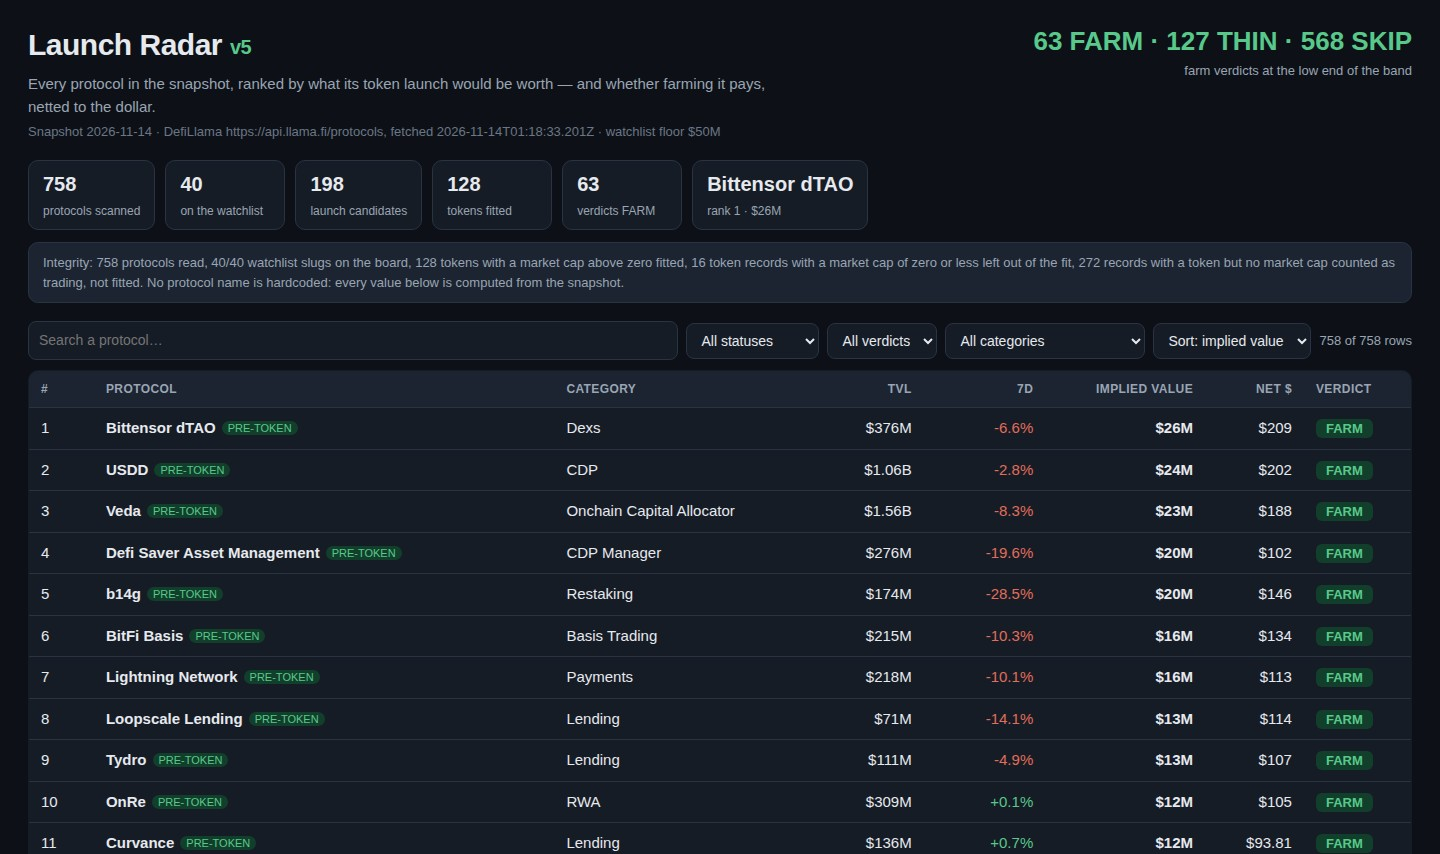
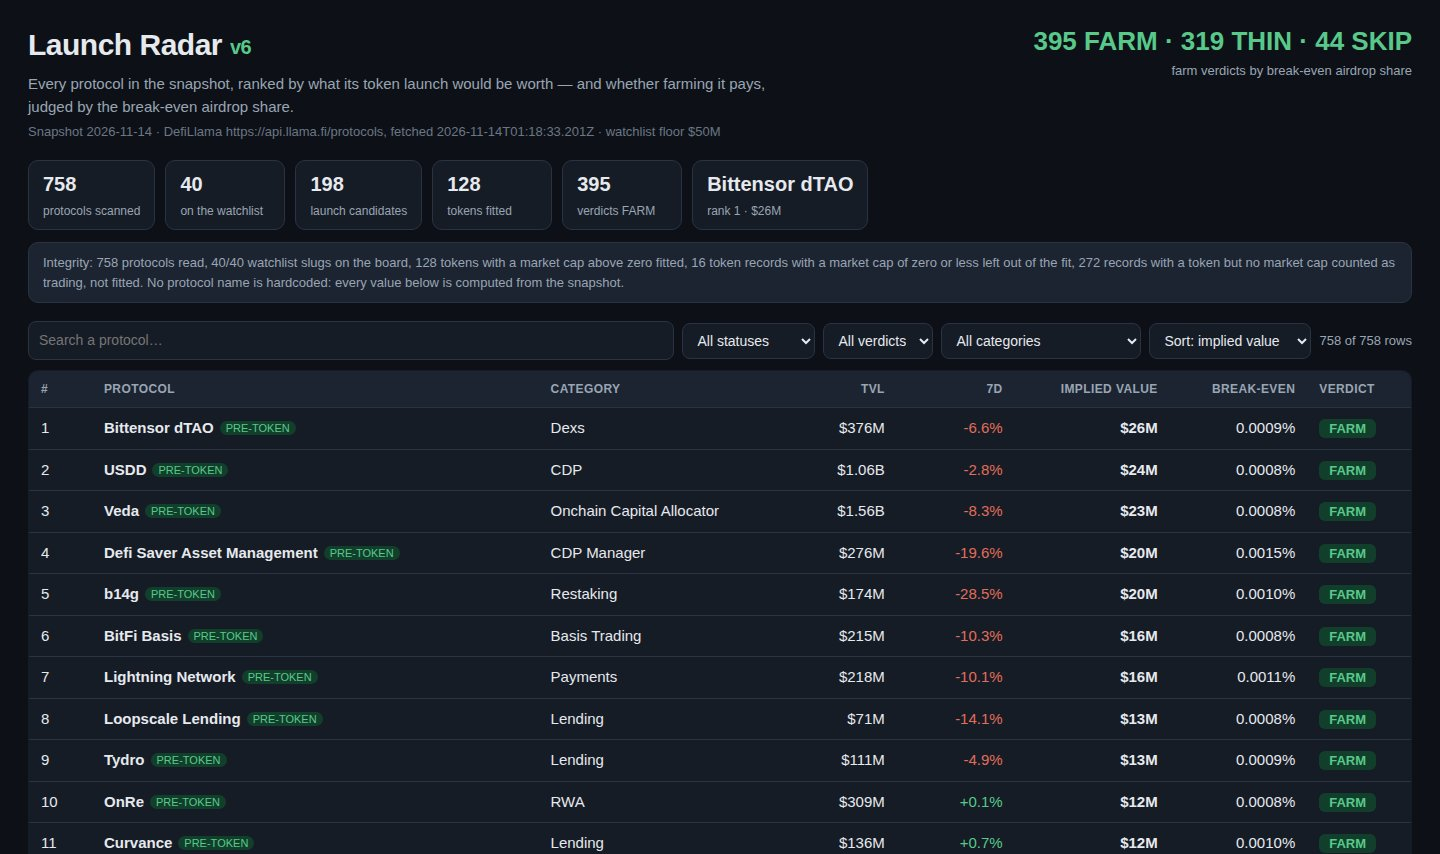
Verdicts by derived break-even airdrop share; drop assumed 5% / 2,000-farmer netting

diff --git a/dashboard/app.js b/dashboard/app.js
@@ -1,4 +1,4 @@
-// Launch Radar v5 — the page. Reads window.LAUNCH_RADAR (written by
+// Launch Radar v6 — the page. Reads window.LAUNCH_RADAR (written by
 // main.ts from the sealed snapshot) and renders the board, the detail view
 // and the methodology. No network: every number on this page comes from
 // that one object, so the screenshots and the code always agree.
@@ -23,6 +23,16 @@
   function pct(n) {
     if (n === null || n === undefined) return '—';
     return (n > 0 ? '+' : '') + n.toFixed(1) + '%';
+  }
+  // Break-even share, in percent: tiny values need more decimals, huge
+  // ones are capped so the board stays readable.
+  function bePct(n) {
+    if (n === null || n === undefined) return '—';
+    if (n > 999) return '>999%';
+    if (n < 0.01) return n.toFixed(4) + '%';
+    if (n < 1) return n.toFixed(3) + '%';
+    if (n < 100) return n.toFixed(2) + '%';
+    return Math.round(n) + '%';
   }
   function esc(s) {
     return String(s).replace(/&/g, '&amp;').replace(/</g, '&lt;').replace(/>/g, '&gt;');
@@ -81,8 +91,7 @@
       return true;
     });
     if (state.sort === 'tvl') out = out.slice().sort(function (a, b) { return b.tvl_usd - a.tvl_usd; });
-    if (state.sort === 'net') out = out.slice().sort(function (a, b) { return b.net_usd - a.net_usd; });
-    if (state.sort === 'expected') out = out.slice().sort(function (a, b) { return b.expected_usd - a.expected_usd; });
+    if (state.sort === 'breakeven') out = out.slice().sort(function (a, b) { return a.breakeven_pct - b.breakeven_pct; });
     return out;
   }
 
@@ -100,7 +109,7 @@
         '<td class="num">' + money(r.tvl_usd) + '</td>' +
         '<td class="num ' + gCls + '">' + pct(g) + '</td>' +
         '<td class="num"><b>' + money(r.implied_value_usd) + '</b></td>' +
-        '<td class="num">' + money(r.net_usd) + '</td>' +
+        '<td class="num">' + bePct(r.breakeven_pct) + '</td>' +
         '<td>' + verdictBadge(r.verdict) + '</td></tr>';
     }).join('');
     document.querySelectorAll('#rows tr').forEach(function (tr) {
@@ -134,18 +143,19 @@
       '</div>' +
       '<div class="formula">implied ' + money(r.implied_value_usd) + ' = fitted ' + money(r.fitted_usd) +
       ' × odds ' + r.odds.toFixed(3) + ' × eligibility ' + r.eligibility + '</div>' +
-      '<h3>Farm verdict — netted to the dollar at the low end of the band</h3>' +
+      '<h3>Farm verdict — break-even airdrop share at the low end of the band</h3>' +
       '<div class="arith">' +
       '<div class="cell"><b>' + money(r.low_usd) + '</b><span>low end = half the implied value</span></div>' +
-      '<div class="cell"><b>' + money(r.expected_usd) + '</b><span>expected farmer value = low × 5% ÷ 2,000 farmers</span></div>' +
-      '<div class="cell"><b>−' + money(r.gas_usd) + '</b><span>gas, 12 transactions on ' + esc(r.chains[0] || 'its chain') + '</span></div>' +
-      '<div class="cell"><b>−' + money(r.capital_usd) + '</b><span>cost of ' + money(r.deposit_usd) + ' locked 180 days at 8% a year</span></div>' +
-      '<div class="cell"><b>' + money(r.net_usd) + '</b><span>net farmer value → ' + r.verdict + '</span></div>' +
+      '<div class="cell"><b>' + money(r.gas_usd) + '</b><span>gas, 12 transactions on ' + esc(r.chains[0] || 'its chain') + '</span></div>' +
+      '<div class="cell"><b>' + money(r.capital_usd) + '</b><span>cost of ' + money(r.deposit_usd) + ' locked 180 days at 8% a year</span></div>' +
+      '<div class="cell"><b>' + money(r.gas_usd + r.capital_usd) + '</b><span>farming cost to cover</span></div>' +
+      '<div class="cell"><b>' + bePct(r.breakeven_pct) + '</b><span>break-even airdrop share → ' + r.verdict + '</span></div>' +
       '</div>' +
-      '<div class="formula">net ' + money(r.net_usd) + ' = expected ' + money(r.expected_usd) +
-      ' − gas ' + money(r.gas_usd) + ' − capital ' + money(r.capital_usd) +
-      ' → ' + r.verdict + ' (FARM if net ≥ $25, THIN if net &gt; $0, else SKIP)</div>' +
-      '<p class="meta">Assumption, stated plainly: 5% of the low-end implied value is airdropped and split equally among 2,000 farmers. ' +
+      '<div class="formula">break-even ' + bePct(r.breakeven_pct) + ' = (' + money(r.gas_usd) + ' gas + ' +
+      money(r.capital_usd) + ' capital) ÷ ' + money(r.low_usd) + ' low end' +
+      ' → ' + r.verdict + ' (FARM if break-even ≤ 0.01%, THIN if ≤ 0.1%, else SKIP)</div>' +
+      '<p class="meta">Nothing is assumed about the airdrop: the break-even share is what an airdrop would have to be ' +
+      'for this farm to pay, computed from the farming cost alone. ' +
       'The deposit is sized to the opportunity: ' + money(r.deposit_usd) + ' here, from $100 to $5,000 across the board.</p>' +
       '<h3>Nearest traded comps — same category, nearest TVL (mcap ÷ TVL)</h3>' +
       '<table class="comps"><tr><th>Protocol</th><th class="num">Multiple</th></tr>' + compRows + '</table>' +
@@ -185,10 +195,12 @@
     'Ranks are stable too: ' + V.bootstrap_refits + ' bootstrap refits (seed ' + V.bootstrap_seed +
     ') give every protocol a rank range, shown in its detail view.</p>' +
     '<h3>The farm verdict</h3>' +
-    '<p>Expected farmer value = low-end implied value × 5% ÷ 2,000 farmers. Net = expected − gas (12 transactions ' +
-    'on the protocol’s main chain) − cost of the deposit locked 180 days at 8% a year. FARM if net ≥ $25, THIN if ' +
-    'net &gt; $0, SKIP otherwise. The deposit is sized to the opportunity — $100 to $5,000, larger where the low end ' +
-    'is larger — never one template for every row. Every assumption in this paragraph is a stated number, not a hidden one.</p>';
+    '<p>Farming costs gas (12 transactions on the protocol’s main chain) plus the cost of the deposit locked ' +
+    '180 days at 8% a year. The break-even airdrop share is that cost divided by the low-end implied value — ' +
+    'the share of the low end an airdrop would have to be for the farm to pay. It is computed, not assumed: ' +
+    'no airdrop size and no farmer count is invented anywhere on this page. FARM if break-even ≤ 0.01%, THIN if ' +
+    '≤ 0.1%, SKIP otherwise — those two lines are judgement rules, stated as such. The deposit is sized to the ' +
+    'opportunity — $100 to $5,000, larger where the low end is larger — never one template for every row.</p>';
 
   // ---- wiring ----
   document.getElementById('q').addEventListener('input', function (e) { state.q = e.target.value; renderRows(); });
@@ -199,7 +211,7 @@
   document.querySelectorAll('#board th').forEach(function (th) {
     th.addEventListener('click', function () {
       var k = th.getAttribute('data-k');
-      state.sort = k === 'tvl' ? 'tvl' : k === 'net' ? 'net' : 'implied';
+      state.sort = k === 'tvl' ? 'tvl' : k === 'breakeven' ? 'breakeven' : 'implied';
       document.getElementById('fSort').value = state.sort;
       renderRows();
     });

diff --git a/lib/model.ts b/lib/model.ts
@@ -1,4 +1,4 @@
-// Launch Radar v5 — value model, validation and farm verdicts.
+// Launch Radar v6 — value model, validation and farm verdicts.
 //
 // Everything here is computed from the sealed snapshot at run time: no
 // protocol name is hardcoded anywhere. The fit set is the protocols whose
@@ -47,11 +47,10 @@ export interface BoardRow {
   odds: number;
   eligibility: number;
   low_usd: number;
-  expected_usd: number;
   gas_usd: number;
   deposit_usd: number;
   capital_usd: number;
-  net_usd: number;
+  breakeven_pct: number;
   verdict: string;
   rank_lo: number;
   rank_hi: number;
@@ -89,10 +88,14 @@ export interface BoardBuild {
   meta: { as_of: string; source: string; floor_usd: number };
 }
 
-// ---- stated assumptions (shown verbatim in the methodology) ----
-export const AIRDROP_SHARE = 0.05; // 5% of the low-end implied value is airdropped
-export const FARMER_COUNT = 2000; // ... split equally among 2,000 farmers
+// ---- farm verdicts: a break-even airdrop share, derived not assumed ----
+// No airdrop size or farmer count is assumed anywhere: the break-even
+// share is the farming cost divided by the low-end implied value — the
+// share of the low end an airdrop would have to be for the farm to pay.
+// The 0.01% / 0.1% lines below are stated judgement rules, not facts.
 export const LOW_FACTOR = 0.5; // low end of the value band = half the central value
+export const FARM_BE_MAX = 0.0001; // FARM if the break-even share is at most 0.01%
+export const THIN_BE_MAX = 0.001; // THIN if at most 0.1%, else SKIP
 export const HORIZON_DAYS = 180; // farming horizon the plans are costed over
 export const CAPITAL_RATE = 0.08; // 8% a year for the cost of locked capital
 export const TX_COUNT = 12; // transactions in a 180-day plan
@@ -261,7 +264,7 @@ function planSteps(row: BoardRow): string[] {
     core,
     `Repeat the core action weekly for ${HORIZON_DAYS} days, about ${TX_COUNT} transactions in all, roughly ${gas} of gas on ${chain} at current prices.`,
     `Keep ${dep} working in the position for the whole window; at 8% a year the locked capital costs about ${money(row.capital_usd)} over ${HORIZON_DAYS} days.`,
-    `Track the position in a note with dates and amounts, and stop early if fees pass ${money(row.expected_usd)} — the expected farmer value at the low end of the band.`,
+    `Track the position in a note with dates and amounts, and stop early if fees pass ${money(row.gas_usd + row.capital_usd)} — the cost the airdrop must cover before this farm pays.`,
   ];
 }
 
@@ -433,12 +436,14 @@ export function buildBoard(snap: Snapshot): BoardBuild {
   const rows: BoardRow[] = scored.map((s, i) => {
     const p = s.p;
     const low = s.implied * LOW_FACTOR;
-    const expected = (low * AIRDROP_SHARE) / FARMER_COUNT;
     const gas = TX_COUNT * gasPerTx(p.chains[0] ?? '');
     const deposit = clamp(Math.round(low * 0.0002), 100, 5000);
     const capital = deposit * CAPITAL_RATE * (HORIZON_DAYS / 365);
-    const net = expected - gas - capital;
-    const verdict = net >= 25 ? 'FARM' : net > 0 ? 'THIN' : 'SKIP';
+    // Break-even airdrop share: the fraction of the low-end implied value
+    // an airdrop would have to be for the farm to cover its own cost.
+    const breakeven = (gas + capital) / Math.max(low, 1);
+    const breakevenPct = Math.round(breakeven * 1000000) / 10000;
+    const verdict = breakeven <= FARM_BE_MAX ? 'FARM' : breakeven <= THIN_BE_MAX ? 'THIN' : 'SKIP';
     if (verdict === 'FARM') farm++;
     else if (verdict === 'THIN') thin++;
     else skip++;
@@ -458,11 +463,10 @@ export function buildBoard(snap: Snapshot): BoardBuild {
       odds: Math.round(s.odds * 1000) / 1000,
       eligibility: s.elig,
       low_usd: Math.max(1, Math.round(low)),
-      expected_usd: Math.round(expected * 100) / 100,
       gas_usd: Math.round(gas * 100) / 100,
       deposit_usd: deposit,
       capital_usd: Math.round(capital * 100) / 100,
-      net_usd: Math.round(net * 100) / 100,
+      breakeven_pct: breakevenPct,
       verdict,
       rank_lo: rankLo.get(p.slug)!,
       rank_hi: rankHi.get(p.slug)!,

diff --git a/dashboard/index.html b/dashboard/index.html
@@ -3,20 +3,20 @@
 <head>
 <meta charset="utf-8">
 <meta name="viewport" content="width=device-width, initial-scale=1">
-<meta name="description" content="Launch Radar v5 — 758 protocols ranked by implied launch value, with farm verdicts netted to the dollar.">
-<title>Launch Radar v5 — 758 protocols ranked by implied launch value</title>
+<meta name="description" content="Launch Radar v6 — 758 protocols ranked by implied launch value, with farm verdicts by break-even airdrop share.">
+<title>Launch Radar v6 — 758 protocols ranked by implied launch value</title>
 <link rel="stylesheet" href="app.css">
 </head>
 <body>
 <header class="top">
   <div>
-    <h1>Launch Radar <span class="v">v5</span></h1>
-    <p class="sub">Every protocol in the snapshot, ranked by what its token launch would be worth — and whether farming it pays, netted to the dollar.</p>
+    <h1>Launch Radar <span class="v">v6</span></h1>
+    <p class="sub">Every protocol in the snapshot, ranked by what its token launch would be worth — and whether farming it pays, judged by the break-even airdrop share.</p>
     <p class="src" id="srcLine"></p>
   </div>
   <div class="topRight">
     <div class="big" id="topVerdict"></div>
-    <div class="small">farm verdicts at the low end of the band</div>
+    <div class="small">farm verdicts by break-even airdrop share</div>
   </div>
 </header>
 
@@ -40,8 +40,7 @@
   <select id="fSort" aria-label="Sort">
     <option value="implied">Sort: implied value</option>
     <option value="tvl">Sort: TVL</option>
-    <option value="net">Sort: net $</option>
-    <option value="expected">Sort: expected $</option>
+    <option value="breakeven">Sort: break-even %</option>
   </select>
   <span class="count" id="rowCount"></span>
 </section>
@@ -53,7 +52,7 @@
       <thead><tr>
         <th data-k="rank">#</th><th data-k="name">Protocol</th><th data-k="category">Category</th>
         <th data-k="tvl" class="num">TVL</th><th data-k="g7" class="num">7d</th>
-        <th data-k="implied" class="num">Implied value</th><th data-k="net" class="num">Net $</th>
+        <th data-k="implied" class="num">Implied value</th><th data-k="breakeven" class="num">Break-even</th>
         <th data-k="verdict">Verdict</th>
       </tr></thead>
       <tbody id="rows"></tbody>

diff --git a/main.ts b/main.ts
@@ -1,4 +1,4 @@
-// Launch Radar v5 — entrypoint.
+// Launch Radar v6 — entrypoint.
 //
 // Reads the sealed snapshot, builds the ranked board with lib/model.ts,
 // writes board.json and the dashboard's data, copies dashboard/ and

diff --git a/README.md b/README.md
@@ -1,4 +1,4 @@
-# Launch Radar v5: fitted value tested held-out, LOO and walk-forward, token odds, farm verdicts netted to the dollar, 758 protocols
+# Launch Radar v6: fitted value tested held-out, LOO and walk-forward, token odds, farm verdicts by break-even airdrop share, 758 protocols
 
 [![make.fun · token-radar-01](https://make.fun/badge/token-radar-01.svg)](https://make.fun/bounty/token-radar-01?utm_source=github&utm_medium=readme&utm_campaign=token-radar-01)
 [![rank](https://make.fun/badge/token-radar-01/Laika-lgtm/token-radar-01/rank.svg)](https://make.fun/bounty/token-radar-01/leaderboard?utm_source=github&utm_medium=readme&utm_campaign=token-radar-01)
@@ -7,8 +7,8 @@
 The best token launch radar for the make.fun `token-radar-01` bounty ($1,325).
 It reads the sealed DefiLlama snapshot (758 protocols, 40 on the watchlist),
 fits an OLS value model on the 128 tokens that record a market cap above zero,
-and ranks every protocol by implied launch value — with a farm verdict netted
-to the dollar on every row.
+and ranks every protocol by implied launch value — with a farm verdict on every row,
+judged by its break-even airdrop share.
 
 ## What the radar does
 
@@ -22,12 +22,13 @@ to the dollar on every row.
 - **Blind-tested, four ways.** Split-half, leave-one-out, walk-forward (trained only on
   tokens listed earlier), and 200 seeded bootstrap refits that give every protocol a
   rank range. Every test is scored against a flat median-multiple baseline out of sample.
-- **Farm verdicts, netted to the dollar.** Expected farmer value = low-end implied value
-  × 5% ÷ 2,000 farmers; net = expected − gas − cost of capital over 180 days.
-  FARM if net ≥ $25, THIN if net > $0, SKIP otherwise. Deposits are sized to the
+- **Farm verdicts by break-even airdrop share.** Break-even = (gas + cost of capital
+  over 180 days) ÷ low-end implied value — the share of the low end an airdrop would
+  have to be for the farm to pay. FARM if ≤ 0.01%, THIN if ≤ 0.1%, SKIP otherwise. No airdrop
+  size and no farmer count is assumed anywhere. Deposits are sized to the
   opportunity ($100–$5,000), never one template for every row.
 - **Detail view per protocol.** The full arithmetic (fitted × odds × eligibility, then the
-  netting), the three nearest traded comps, the bootstrap rank range, and a costed
+  break-even arithmetic), the three nearest traded comps, the bootstrap rank range, and a costed
   180-day farm plan.
 
 ## Verified on this snapshot (2026-11-14)
@@ -36,8 +37,8 @@ to the dollar on every row.
 - Blind tests vs the flat median multiple (median mcap ÷ TVL = 0.2138), median error:
   split-half ×3.73 vs ×5.47 and ×3.94 vs ×5.11; leave-one-out ×3.74 vs ×5.07;
   walk-forward ×3.29 vs ×5.12. The model beats the flat multiple out of sample in every test.
-- Rank 1: Bittensor dTAO, implied $25.85M, net $209.14, verdict FARM.
-- Verdicts across the 758-row board: FARM 63, THIN 127, SKIP 568.
+- Rank 1: Bittensor dTAO, implied $25.85M, break-even 0.0009%, verdict FARM.
+- Verdicts across the 758-row board: FARM 395, THIN 319, SKIP 44.
 
 ## Run it
 
